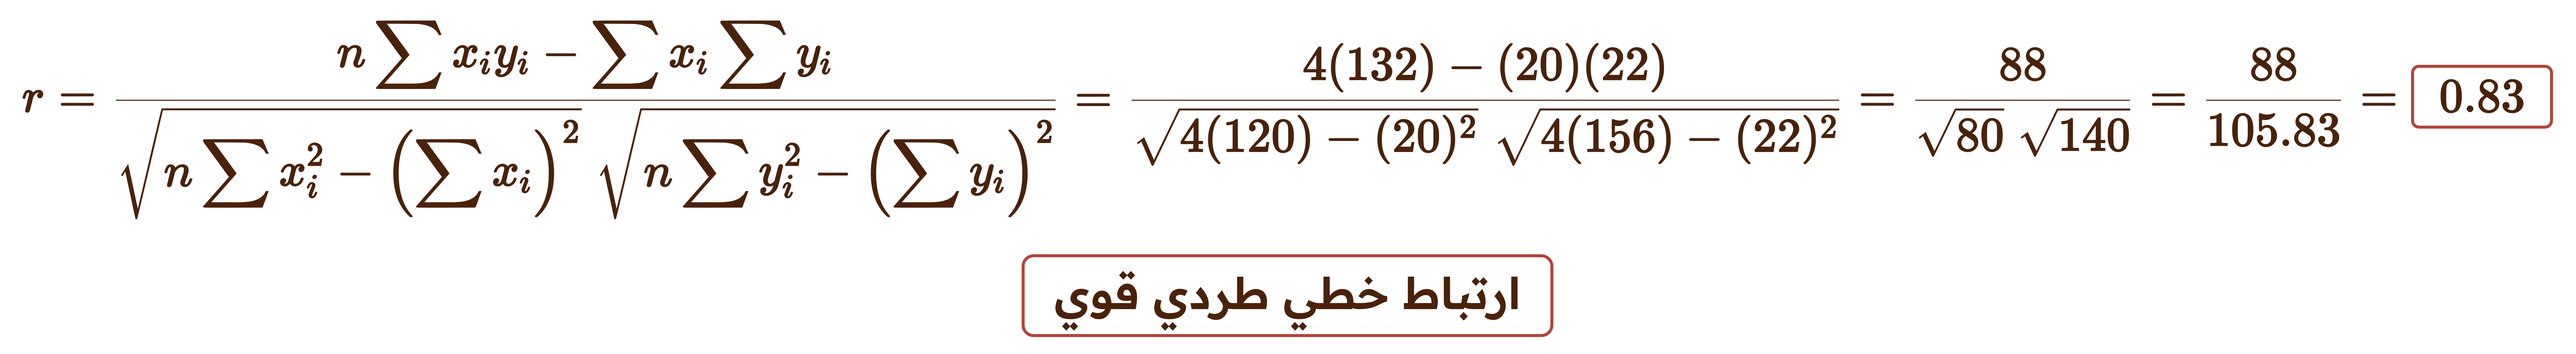
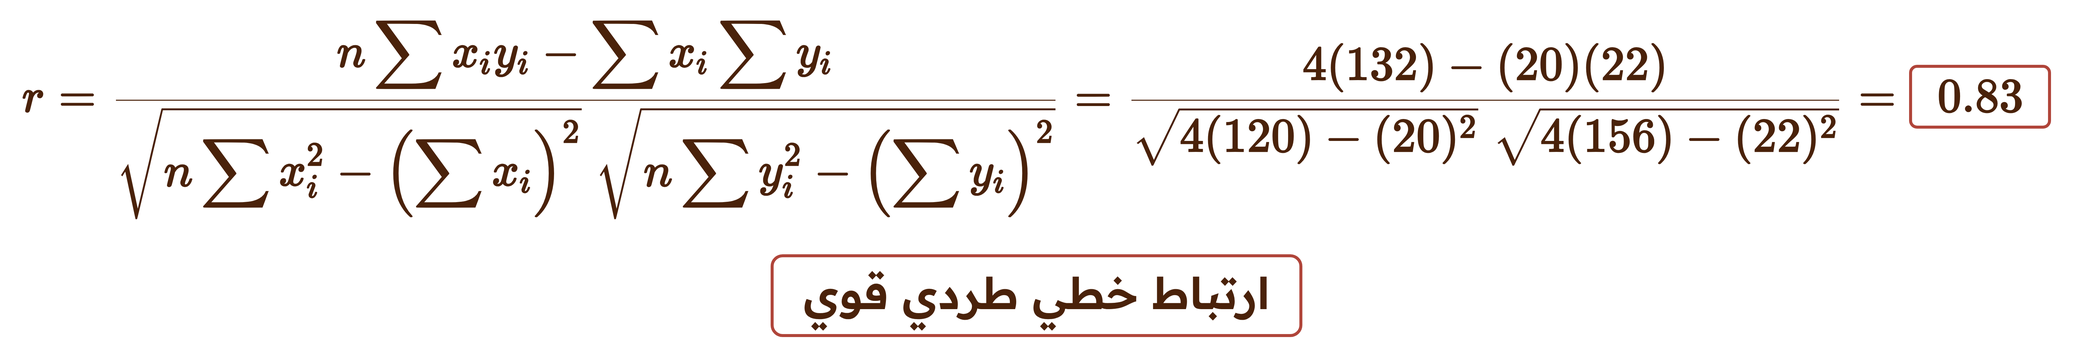
Exercise 4.1.4: formula = substitution = result only
Claude-Session: https://claude.ai/code/session_01P2W4DViX2DDJL3Qd7qfdx4

diff --git a/tools/statistics/t414.js b/tools/statistics/t414.js
@@ -13,10 +13,9 @@ const K=t=>katex.renderToString(t,{displayMode:true,output:'html'});
 const hd=['x_i','y_i','x_iy_i','x_i^{2}','y_i^{2}'].map(h=>`<th>${katex.renderToString(h,{output:'html'})}</th>`).join('');
 const table=`<table><tr>${hd}</tr>${rows.map(r=>`<tr>${r.map(v=>`<td>${v}</td>`).join('')}</tr>`).join('')}
 <tr class="s">${S.map(v=>`<td>Σ = ${v}</td>`).join('')}</tr></table>`;
-// سطر واحد أفقي: القانون = التعويض = … = الناتج
+// سطر واحد أفقي: القانون = التعويض = الناتج
 const tex=String.raw`r=\dfrac{n\displaystyle\sum x_iy_i-\sum x_i\sum y_i}{\sqrt{n\displaystyle\sum x_i^{2}-\left(\sum x_i\right)^{2}}\;\sqrt{n\displaystyle\sum y_i^{2}-\left(\sum y_i\right)^{2}}}
 =\dfrac{${n}(${S[2]})-(${S[0]})(${S[1]})}{\sqrt{${n}(${S[3]})-(${S[0]})^{2}}\;\sqrt{${n}(${S[4]})-(${S[1]})^{2}}}
-=\dfrac{${num}}{\sqrt{${dx}}\;\sqrt{${dy}}}=\dfrac{${num}}{${trunc(den,2)}}
 =\fcolorbox{${BOX}}{transparent}{$\;${trunc(r,2)}\;$}`;
 const sol=`<div class="eq">${K(tex)}</div><div class="ans"><span>ارتباط خطي طردي قوي</span></div>`;
 const css=`@font-face{font-family:Rx;src:url(file://${FONTS}/Readex-600.ttf)}
